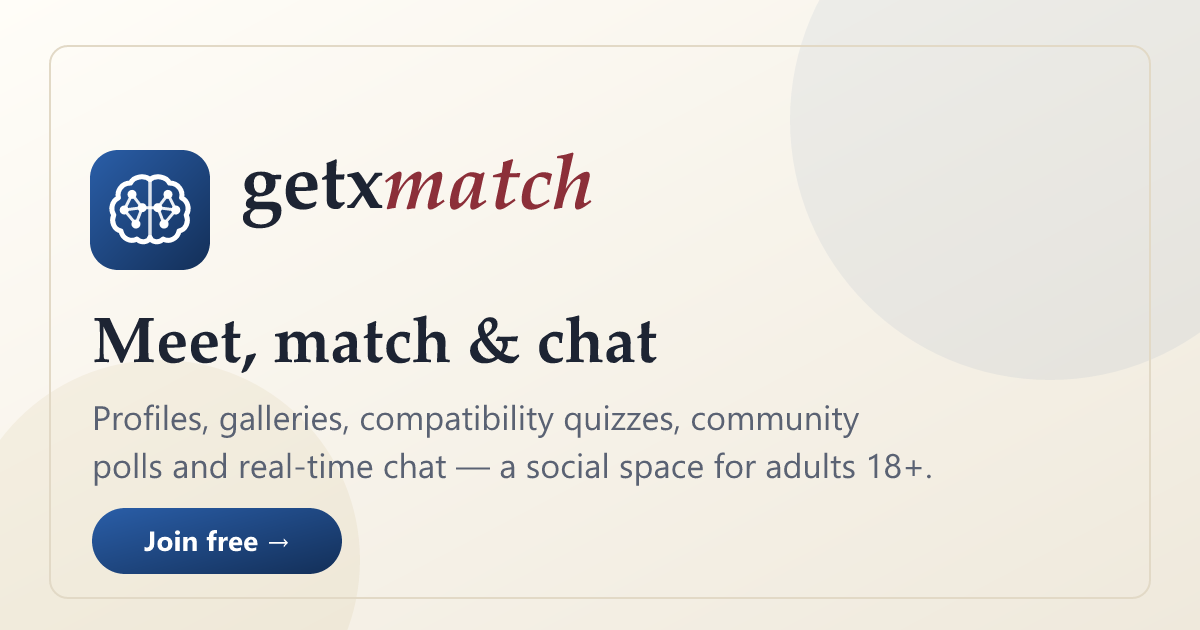
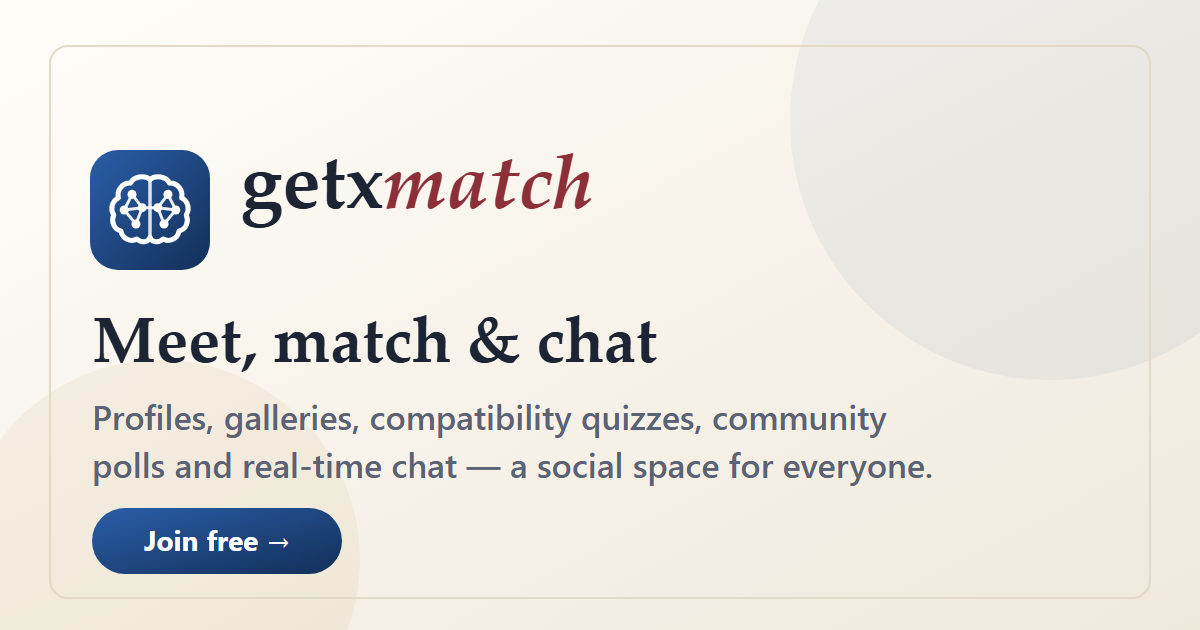
Remove remaining adult-flavoured content
- Chat status: drop "flirting with" and free-text statuses; only the listed
  verbs are accepted (server and client), and stored ones are cleared.
- Old girlfriend / crush / … connection kinds are converted to 'friend';
  their unused styles and comments are gone.
- Replace "dating" wording in search keywords, the blog intro and admin
  placeholders.
- Remove the unused .adult-section style and a stale comment.
- Regenerate the share image so it says "a social space for everyone".

diff --git a/public/js/app.js b/public/js/app.js
@@ -1545,38 +1545,24 @@
       : '<span class="hint">Set what you’re doing — it shows on Recent Activity.</span>';
   }
 
-  const CUSTOM_ACT = '__custom__'; // sentinel option value: "write your own"
-
-  // Reflect the user's own current activity into the picker: a predefined verb
-  // selects its option; anything else is shown in the custom text box. Reads the
-  // live DOM so it works from both the picker and the cross-tab sync handler.
+  // Reflect the user's own current activity into the picker. Reads the live DOM
+  // so it works from both the picker and the cross-tab sync handler.
   function reflectMineActivity(activity) {
     const select = document.getElementById('activitySelect');
-    const custom = document.getElementById('activityCustom');
-    if (!select || !custom) return;
+    if (!select) return;
     const list = state.activities || [];
-    if (activity && !list.includes(activity)) {
-      select.value = CUSTOM_ACT;
-      custom.value = activity;
-      custom.classList.remove('hidden');
-    } else {
-      select.value = activity || '';
-      custom.value = '';
-      custom.classList.add('hidden');
-    }
+    select.value = activity && list.includes(activity) ? activity : '';
   }
 
   async function setupActivityBar(view, peer) {
     const bar = view.querySelector('#activityBar');
     const select = view.querySelector('#activitySelect');
-    const custom = view.querySelector('#activityCustom');
     const activities = await loadActivities();
     if (!state.peer || state.peer.id !== peer.id || !document.body.contains(select)) return;
 
-    // Predefined verbs (if any) plus an always-available "write your own" entry.
+    // Predefined verbs only (no free text — it shows on the public feed).
     select.innerHTML = '<option value="">— nothing —</option>' +
-      activities.map((a) => `<option value="${esc(a)}">${esc(a)}</option>`).join('') +
-      `<option value="${CUSTOM_ACT}">✍ Custom…</option>`;
+      activities.map((a) => `<option value="${esc(a)}">${esc(a)}</option>`).join('');
     bar.classList.remove('hidden');
 
     // Share an image / GIF (to Recent Activity) straight from the chat status bar.
@@ -1618,31 +1604,7 @@
     reflectMineActivity(state.chatActivity.mine || '');
     renderActivityStatus(peerName);
 
-    select.addEventListener('change', () => {
-      if (select.value === CUSTOM_ACT) {
-        custom.classList.remove('hidden');
-        custom.focus();
-        return; // wait for the user to type + commit
-      }
-      custom.classList.add('hidden');
-      custom.value = '';
-      send(select.value); // a predefined verb, or "" to clear
-    });
-
-    // Commit on Enter or blur. An abandoned (empty) box restores the current
-    // state rather than clearing — use "— nothing —" to clear on purpose.
-    let suppressBlur = false;
-    const commitCustom = () => {
-      if (suppressBlur) { suppressBlur = false; return; }
-      const v = custom.value.trim();
-      if (!v) return reflectMineActivity(state.chatActivity.mine || '');
-      send(v);
-    };
-    custom.addEventListener('keydown', (e) => {
-      if (e.key === 'Enter') { e.preventDefault(); custom.blur(); } // blur commits
-      else if (e.key === 'Escape') { suppressBlur = true; reflectMineActivity(state.chatActivity.mine || ''); custom.blur(); }
-    });
-    custom.addEventListener('blur', commitCustom);
+    select.addEventListener('change', () => send(select.value)); // a verb, or "" to clear
   }
 
   async function openChat(peer) {
@@ -1682,7 +1644,6 @@
           <label class="activity-pick">
             <span>You're…</span>
             <select id="activitySelect"><option value="">— nothing —</option></select>
-            <input id="activityCustom" class="hidden" type="text" maxlength="40" placeholder="type your own…" />
           </label>
         </div>
         <div class="chat-stage">
@@ -5921,7 +5882,6 @@
   function activityIcon(activity) {
     const a = String(activity).toLowerCase();
     if (/(chat|messag|talk)/.test(a)) return '💬';
-    if (/(flirt|crush|love|kiss)/.test(a)) return '😍';
     if (/(match|paired|connect)/.test(a)) return '💘';
     if (/(rat|star|review)/.test(a)) return '⭐';
     if (/(gift|sent)/.test(a)) return '🎁';

diff --git a/public/css/style.css b/public/css/style.css
@@ -522,8 +522,6 @@ a { color: var(--accent); text-decoration: none; transition: color .15s ease; }
 .chip.disabled { opacity: .45; cursor: not-allowed; }
 .interest-group { margin-bottom: 12px; }
 .interest-group-title { font-size: 12px; font-weight: 600; text-transform: uppercase; letter-spacing: .04em; color: var(--muted); margin-bottom: 6px; }
-.adult-section { margin-top: 8px; border: 1px solid var(--border); border-radius: 10px; padding: 8px 12px; }
-.adult-section summary { cursor: pointer; color: var(--muted); font-size: 14px; }
 
 .privacy-toggle { margin-top: 12px; border: 1px solid var(--border); border-radius: 10px; padding: 10px 12px; }
 .switch-row { display: flex; align-items: center; gap: 10px; cursor: pointer; font-weight: 600; }
@@ -826,12 +824,6 @@ a { color: var(--accent); text-decoration: none; transition: color .15s ease; }
 .rel-special .friend-chip { background: color-mix(in srgb, var(--rel-accent) 10%, transparent); }
 .rel-special .friend-chip:hover { background: color-mix(in srgb, var(--rel-accent) 20%, transparent); }
 .rel-special .friend-chip .avatar { box-shadow: 0 0 0 2px color-mix(in srgb, var(--rel-accent) 55%, transparent); }
-
-/* Per-kind accent colours. */
-.rel-girlfriend, .rel-wife { --rel-accent: var(--accent); }   /* warm pink */
-.rel-boyfriend, .rel-husband { --rel-accent: #4d9dff; } /* blue */
-.rel-crush { --rel-accent: #b06cff; }                    /* purple */
-.rel-colleague { --rel-accent: #34c3a8; }                /* teal */
 
 .friend-row { display: flex; flex-direction: column; gap: 8px; }
 .friend-chip { display: flex; align-items: center; gap: 10px; padding: 6px; border-radius: 12px; cursor: pointer; transition: background .15s ease; }

diff --git a/src/socket.js b/src/socket.js
@@ -9,6 +9,7 @@ const { getGift } = require('./gifts');
 const polls = require('./polls');
 const chatQuiz = require('./chatQuiz');
 const { isCompatibility } = require('./quizTypes');
+const { isValidActivity } = require('./activities');
 
 // Emoji reactions a user may place on a message/gift. Server-side allow-list so
 // clients can't store arbitrary strings.
@@ -629,10 +630,10 @@ function initSocket(io) {
         if (!recipient) return ack && ack({ error: 'Recipient not found.' });
         if (areBlocked(me.id, to)) return ack && ack({ error: 'You cannot set an activity with this member.' });
 
-        // Accept either a predefined verb or a user's own custom activity.
-        // Free text is trimmed, whitespace-collapsed and length-capped; the
-        // feed renders it as plain text (textContent), so no markup can leak.
-        const raw = String((payload && payload.activity) || '').trim().replace(/\s+/g, ' ').slice(0, 40);
+        // Only the predefined verbs (src/activities.js) are accepted — no free
+        // text, since the activity is shown on the public feed.
+        const raw = String((payload && payload.activity) || '').trim();
+        if (raw && !isValidActivity(raw)) return ack && ack({ error: 'Pick an activity from the list.' });
         const now = Date.now();
         if (!raw) {
           db.prepare('DELETE FROM chat_activities WHERE user_id = ? AND peer_id = ?').run(me.id, to);

diff --git a/src/db.js b/src/db.js
@@ -714,7 +714,7 @@ db.exec(`
   if (!cols.includes('pin_rank')) db.exec('ALTER TABLE highway_posts ADD COLUMN pin_rank INTEGER');
 }
 
-// Relationship kind on a friendship request (friend / girlfriend / crush / …).
+// Relationship kind on a friendship request (always 'friend' now).
 // Added idempotently for databases created before the relationship-request feature.
 {
   const cols = db.prepare('PRAGMA table_info(friendships)').all().map((c) => c.name);
@@ -918,6 +918,16 @@ db.exec(`
   db.prepare(`DELETE FROM gallery_comment_reactions WHERE emoji IN (${marks})`).run(...removed);
   db.exec('DROP TABLE IF EXISTS chat_settings; DROP TABLE IF EXISTS chat_close_state;');
   db.exec('UPDATE messages SET expires_at = NULL WHERE expires_at IS NOT NULL;');
+})();
+
+// --- Migration: chat activities are limited to the predefined verbs ("flirting
+// with" and free-text statuses were removed), and every connection is a plain
+// friendship (older girlfriend / crush / … kinds become 'friend').
+(function migrateSafeActivities() {
+  const { listActivities } = require('./activities');
+  const allowed = listActivities();
+  db.prepare(`DELETE FROM chat_activities WHERE activity NOT IN (${allowed.map(() => '?').join(',')})`).run(...allowed);
+  db.exec("UPDATE friendships SET rel_type = 'friend' WHERE rel_type IS NOT NULL AND rel_type <> 'friend';");
 })();
 
 module.exports = db;

diff --git a/public/js/admin.js b/public/js/admin.js
@@ -145,7 +145,7 @@
         </div>
 
         <label>Meta keywords (comma-separated)</label>
-        <input id="${seoId('metaKeywords')}" value="${v('metaKeywords')}" placeholder="dating, compatibility, quiz" />
+        <input id="${seoId('metaKeywords')}" value="${v('metaKeywords')}" placeholder="compatibility, quiz, community" />
 
         <label>Canonical URL</label>
         <input id="${seoId('canonicalUrl')}" value="${v('canonicalUrl')}" placeholder="https://getxmatch.com/…" />
@@ -1149,7 +1149,7 @@
             <label>Meta description <span class="seo-count" data-for="ss_metaDescription"></span></label>
             <textarea id="ss_metaDescription" maxlength="320" placeholder="${esc(defaults.metaDescription || '')}">${v('metaDescription')}</textarea>
             <label>Meta keywords (comma-separated)</label>
-            <input id="ss_metaKeywords" maxlength="300" value="${v('metaKeywords')}" placeholder="dating, compatibility quiz, social chat" />
+            <input id="ss_metaKeywords" maxlength="300" value="${v('metaKeywords')}" placeholder="compatibility quiz, social chat" />
 
             <h4 class="seo-h">Social card — Facebook · Instagram · Reddit · WhatsApp · LinkedIn</h4>
             <p class="hint" style="margin-top:0">These Open Graph tags drive the rich preview on every one of these platforms.</p>

diff --git a/src/routes/pages.js b/src/routes/pages.js
@@ -644,7 +644,7 @@ router.get('/blog', (req, res) => {
   const seoDescriptor = resolveSeo({}, {
     canonicalPath: '/blog',
     title: 'Blog',
-    description: 'Stories, dating tips and news from the getxmatch team.',
+    description: 'Stories, tips and news from the getxmatch team.',
   });
   const jsonLd = [
     breadcrumbLd([{ name: 'Home', path: '/' }, { name: 'Blog', path: '/blog' }]),
@@ -657,7 +657,7 @@ router.get('/blog', (req, res) => {
   const bodyHtml = `
 ${breadcrumbHtml([{ name: 'Home', path: '/' }, { name: 'Blog', path: '/blog' }])}
 <h1>Blog</h1>
-<p class="lede">Stories, dating tips and news from the getxmatch team.</p>
+<p class="lede">Stories, tips and news from the getxmatch team.</p>
 ${cards}`;
   sendWithAds(res, { seoDescriptor, jsonLd, bodyHtml });
 });
@@ -785,7 +785,7 @@ router.get('/qr/u/:file', (req, res, next) => {
 // Public profile link (/u/<username>) — what the share button and the profile
 // QR code point to. A logged-in member is taken to the profile inside the app;
 // anyone else sees a read-only profile and must join to message, follow, rate
-// or connect. Intimate fields, photos, GIFs and comments stay members-only.
+// or connect. Photos, GIFs and comments stay members-only.
 router.get('/u/:username', optionalAuth, (req, res) => {
   const row = db
     .prepare(

diff --git a/src/routes/events.js b/src/routes/events.js
@@ -50,7 +50,6 @@ function userMini(id, viewerId) {
 function activityIcon(activity) {
   const a = String(activity).toLowerCase();
   if (/(chat|messag|talk)/.test(a)) return '💬';
-  if (/(flirt|crush|love|kiss)/.test(a)) return '😍';
   if (/(match|paired|connect)/.test(a)) return '💘';
   if (/(rat|star|review)/.test(a)) return '⭐';
   if (/(gift|sent)/.test(a)) return '🎁';
@@ -193,7 +192,7 @@ function buildFeed(viewerId, opts) {
     });
   });
 
-  // 3b) User-declared chat activity ("A flirting with B") — real users.
+  // 3b) User-declared chat activity ("A chatting with B") — real users.
   db.prepare(
     'SELECT user_id, peer_id, activity, updated_at FROM chat_activities ORDER BY updated_at DESC LIMIT ?'
   ).all(PER_SOURCE).forEach((row) => {

diff --git a/public/index.html b/public/index.html
@@ -5,7 +5,7 @@
   <meta name="viewport" content="width=device-width, initial-scale=1" />
   <title>getxmatch — profiles, quizzes, polls & real-time chat</title>
   <meta name="description" content="A lightweight social space — profiles, galleries, compatibility quizzes, community polls and real-time chat." />
-  <meta name="keywords" content="getxmatch, dating, compatibility quiz, social chat, community polls, meet people" />
+  <meta name="keywords" content="getxmatch, compatibility quiz, social chat, community polls, meet people" />
   <meta name="theme-color" content="#f6f3ea" media="(prefers-color-scheme: light)" />
   <meta name="theme-color" content="#0e141d" media="(prefers-color-scheme: dark)" />
   <meta property="og:site_name" content="getxmatch" />

diff --git a/src/relationships.js b/src/relationships.js
@@ -1,9 +1,7 @@
 'use strict';
 
-// Connection requests are plain friend requests. The friendship row still has
-// a `rel_type` column: older rows may hold kinds that used to exist
-// (girlfriend, crush, colleague, …); they're kept in the database but shown as
-// friends everywhere, and new requests are always 'friend'.
+// Connection requests are plain friend requests. Every friendship row's
+// `rel_type` is 'friend' (older kinds are converted at startup in src/db.js).
 const REL_TYPES = {
   friend: { label: 'Friends', emoji: '🤝', requestLabel: 'Send Friend Request' },
 };

diff --git a/src/profileData.js b/src/profileData.js
@@ -331,7 +331,7 @@ function buildProfile(userId, viewerId) {
   const friendList = friendsOf(row.id);
   const blocked = blockState(row.id, viewerId);
 
-  // The relationship kind (friend / crush / girlfriend / …) between the owner
+  // The relationship kind (always 'friend') between the owner
   // and the viewer, if any request exists in either direction.
   let relType = null;
   if (viewerId && viewerId !== row.id) {

diff --git a/src/activities.js b/src/activities.js
@@ -5,7 +5,6 @@
 
 const ACTIVITIES = [
   'chatting with',
-  'flirting with',
   'video calling',
   'getting to know',
   'vibing with',
